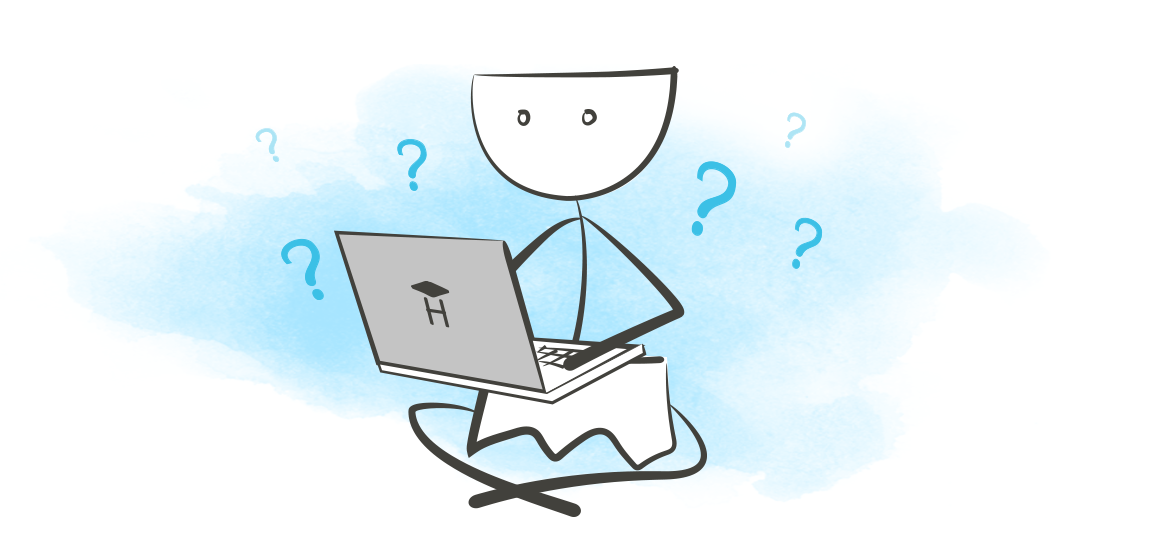
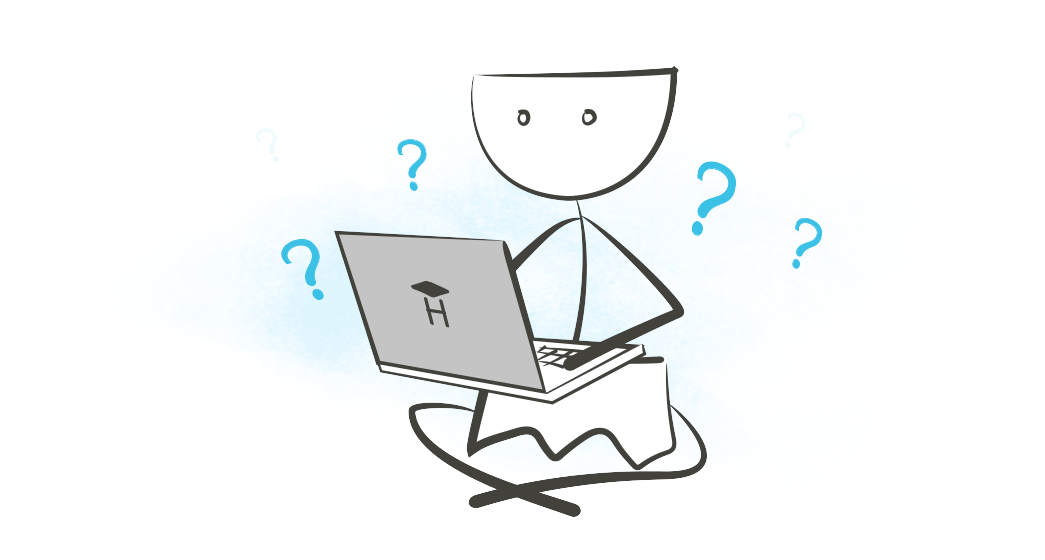
finish3

diff --git a/src/index.html b/src/index.html
@@ -11,7 +11,7 @@
     <header class="header-section">
       <div class="header-container">
       <h1 class="header-title"><span class="title-orange">Когнитивные<br> искажения<br></span> в программировании</h1>
-      <img class="header-image" src="./img/main.png" alt="Человечек с ноутбуком" width="1083" height="525">
+      <img class="header-image" src="./img/main.png" alt="Человечек с ноутбуком" height="525">
       <div class="header-description">
         <div class="flex-basis">
       <p>Мы, разработчики, часто сталкиваемся с проблемами, которые идут вразрез с нашей продуктивностью. Но мы часто игнорируем целостную картину. Некоторые из этих проблем малозаметны, некоторые существенны. Иногда с ними можно как-то справиться, а иногда, к сожалению, нет.</p>

diff --git a/src/styles/style.css b/src/styles/style.css
@@ -31,6 +31,10 @@
         url(../fonts/AnyConv.com__Neucha-Regular.woff);
 }
 
+img {
+  max-width: 100%;
+}
+
 body {
   margin: 0;
   padding: 0;
@@ -87,7 +91,7 @@ body {
 .header-image {
   position: absolute;
   top: 55px;
-  right: -270px;
+  right: -160px;
 }
 
 .header-description {
